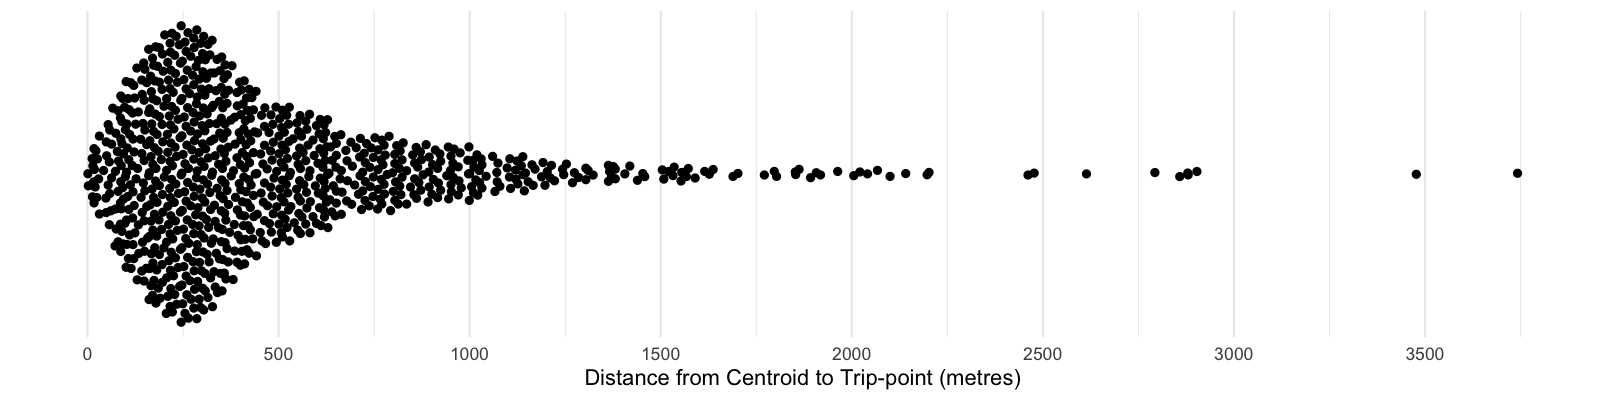
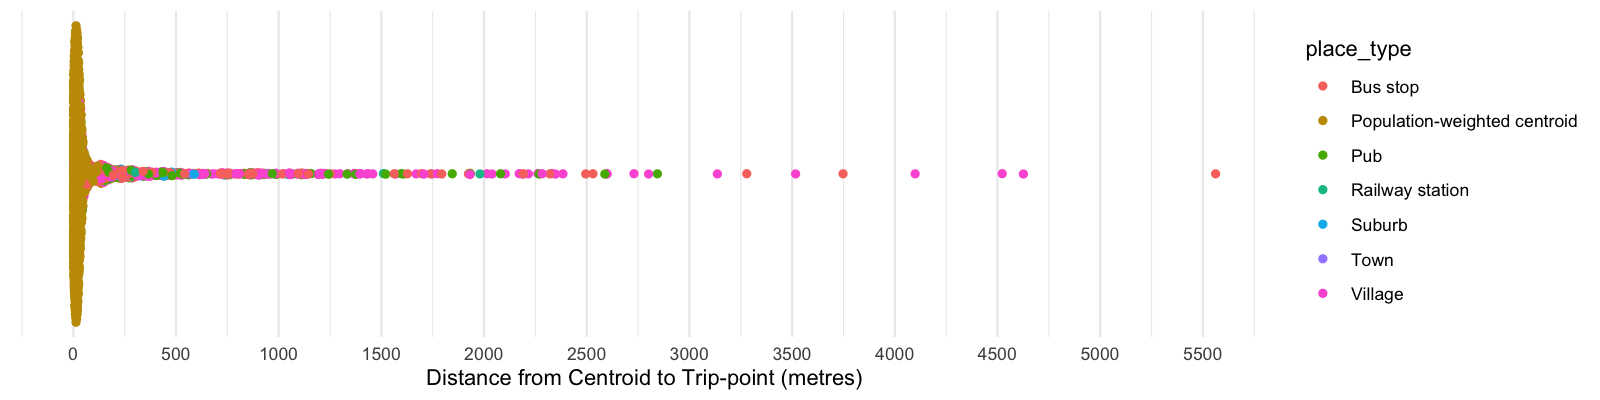
Update README

diff --git a/README.md b/README.md
@@ -4,28 +4,27 @@ This repository contains code to generate geographical trip-points for each 2011
 
 It attempts to address the problem that for some LSOAs, particularly rural ones, the [population-weighted centroid](https://geoportal.statistics.gov.uk/documents/b20460edf2f3459fa7d2771eacab51fc/explore) might be in the middle of nowhere - far away from any actual place, public transport stop or road. Trip planners may not be able to find routes to and from these centroids.
 
-These “trip-points” are generated in the following way:
-- 25 LSOAs have a trip point manually defined,
-- 852 LSOAs with an area bigger than the Welsh median and containing at least one “Community” or “Locality” have their trip point set to the location of the Community or Locality nearest to the population-weighted centroid, and
-- the 1032 remaining LSOAs just use the population-weighted centroid.
+These “trip-points” are generated in a two-step process:
+1. For roughly the third of Welsh LSOAs with the greatest areas, I find the village, town, bus stop, train station or pub nearest to the population-weighted centroid.
 
-## Communities and Localities
+2.  For each LSOA, I find the nearest motor-vehicle accessible road to a) the place found in the first step for the 600 or so biggest LSOAs or b) the population-weighted centroid for the 1,300 or so remaining LSOAs.
 
-These are places described in the [Index of Place Names in Great Britain](https://geoportal.statistics.gov.uk/datasets/e8e725daf8944af6a336a9d183114697/about). “Localities” are “villages, hamlets and localities without legally defined boundaries” and “Communities” are the [smallest areas of civil administration in Wales](https://webarchive.nationalarchives.gov.uk/20160112001128/http://www.ons.gov.uk/ons/guide-method/geography/beginner-s-guide/administrative/england/parishes-and-communities/index.html).
+The first step attempts to find points where it might actually be possible to start a public transport journey, while the second step all but guarantees that it will be possible to start a car-based journey.
 
 ## Distance of Trip-points from Centroids
 
-The plot below shows the distance of the trip-point from the population-weighted centroids for the LSOAs where the two differ.
+The plot below shows the distance of the trip-point from the population-weighted centroids for each LSOA.
 
 ![](distance_plot.png)
 
 ## License
 
-The code and trip-points are licensed under the [MIT licence](https://opensource.org/licenses/MIT).
+The trip-points are made available under the [ODbL v1.0](https://opendatacommons.org/licenses/odbl/1-0/) by Adam Watkins.
 
-The trip-points are derived from several datasets provided by the Office for National Statistics licensed under the Open Government Licence v.3.0 and containing OS Data © Crown copyright and database right 2021, reproduced in the *data-raw* directory.
+The trip-points are derived from several datasets provided by the Office for National Statistics licensed under the Open Government Licence v.3.0 and contain OS Data © Crown copyright and database right 2021.
 
 These datasets include:
-- [Index of Place Names in Great Britain](https://geoportal.statistics.gov.uk/datasets/e8e725daf8944af6a336a9d183114697/about)
 - [LSOA11 Population-Weighted Centroids](https://geoportal.statistics.gov.uk/datasets/ons::lower-layer-super-output-areas-december-2011-population-weighted-centroids/about)
 - [LSOA11 Boundaries](https://geoportal.statistics.gov.uk/datasets/ons::lower-layer-super-output-areas-december-2011-boundaries-super-generalised-clipped-bsc-ew-v3/about)
+
+They are also derived from information about places and roads obtained from [OpenStreetMap contributors](https://www.openstreetmap.org/copyright), via [Geofabrik.de](https://download.geofabrik.de/europe/great-britain.html), under the [ODbL v1.0](https://opendatacommons.org/licenses/odbl/1-0/).
